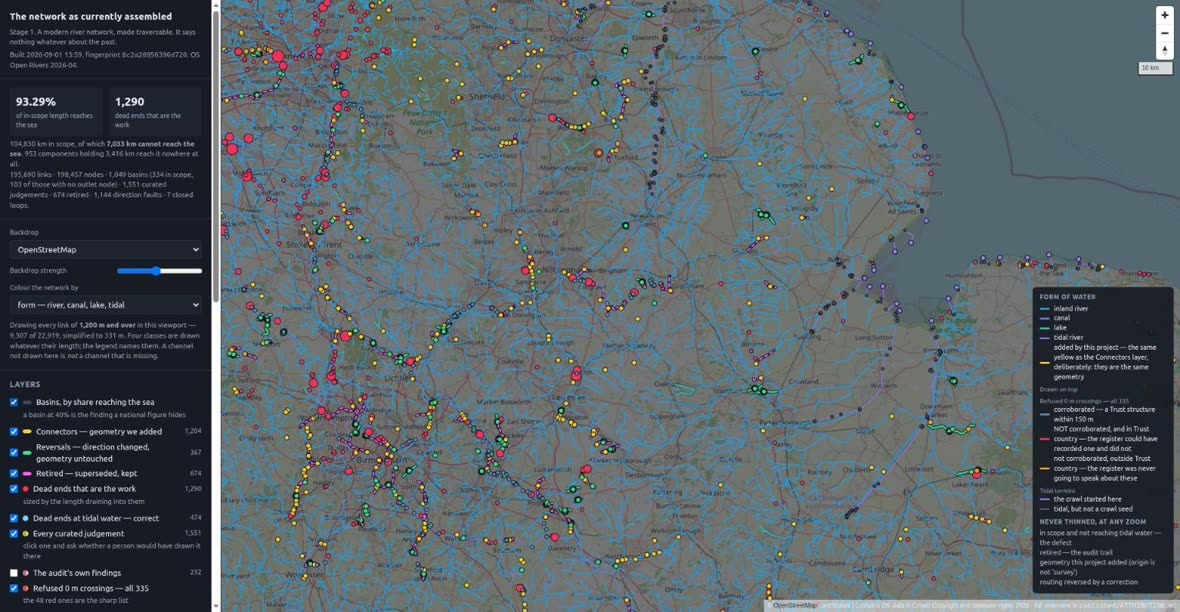
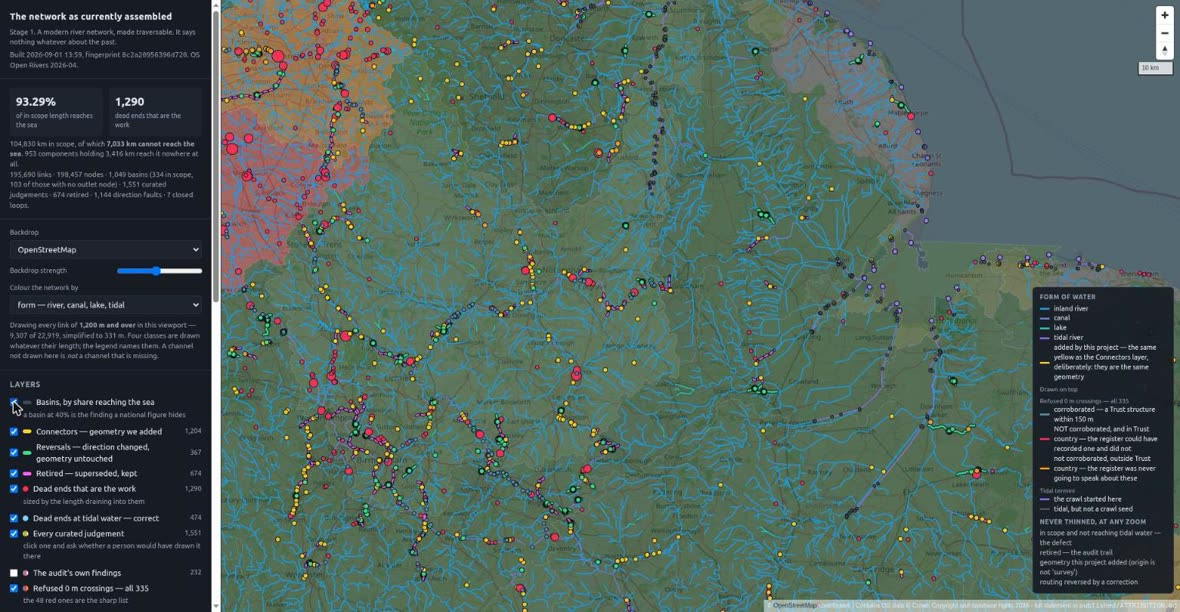
Documentation: retake the network picture with basins shaded
With basins shaded by the share of their length reaching the sea, the
figure carries both readings at once and each explains the other. The
red basins in the north-west are canal country, where one misdrawn
junction strands everything above it; most of the rest is green while
still carrying hundreds of defects. That is the argument for counting
judgements rather than defects, made in a picture instead of a sentence.

Changed region(s): [[0.1831, 0.0, 1.0, 1.0], [0.9763, 0.4967, 1.0, 0.5899], [0.0, 0.652, 0.0305, 0.683]]

diff --git a/docs/trace/js/app.js b/docs/trace/js/app.js
@@ -122,25 +122,57 @@ async function signIn(token) {
 /* ── the map ──────────────────────────────────────────────────────────────── */
 
 /**
- * The backdrop a contributor can actually trace on.
+ * The backdrop a contributor can actually trace on — decided by asking, not by arithmetic.
  *
- * BOUNDS ARE A HINT, NOT A CONTAINMENT TEST. The catalogue's extents are derived from a
- * listing at zoom 9, so a box is snapped to about 78 km and several counties genuinely
- * contain any given point. Picking the SMALLEST box containing the centre lands on the
- * right county far more often than picking the first — at Northwich the first is
- * `Shrop_Derby`, which draws one tile in fifty-seven. It is a default, and the picker is
- * there because a default is all it can be.
+ * BOUNDS ARE A HINT AND NOT A CONTAINMENT TEST, and this function exists because the first
+ * version forgot that. The catalogue's extents are derived from a listing at zoom 9, so a
+ * box is snapped to about 78 km and several counties genuinely contain any given point.
+ * Choosing the smallest box containing the centre picked **Bedfordshire for a point in
+ * Ware, Hertfordshire** — whose tiles do not cover it, so the map drew nothing at all and
+ * said nothing about why. That is rewt-fc's Northwich case arriving unprompted: picking the
+ * first box there lands on `Shrop_Derby`, which draws one tile in fifty-seven.
+ *
+ * So the boxes only NOMINATE. The bucket decides: fetch the one tile covering the point
+ * from each candidate in turn and take the first that answers. One request per candidate,
+ * usually one candidate, and it is the difference between a sheet and a blank screen.
  */
-function bestFor(lon, lat, group) {
-  const inside = BACKDROPS.filter((l) => l.group === group
-    && lon >= l.bounds[0] && lon <= l.bounds[2] && lat >= l.bounds[1] && lat <= l.bounds[3]);
-  if (!inside.length) return null;
-  const area = (l) => (l.bounds[2] - l.bounds[0]) * (l.bounds[3] - l.bounds[1]);
-  return inside.sort((a, b) => area(a) - area(b))[0];
+function tileXY(lon, lat, z) {
+  const n = 2 ** z;
+  return {
+    x: Math.floor(((lon + 180) / 360) * n),
+    y: Math.floor((1 - Math.asinh(Math.tan((lat * Math.PI) / 180)) / Math.PI) / 2 * n),
+  };
 }
 
-function backdropOptions(lon, lat) {
-  const best = bestFor(lon, lat, '25_inch');
+async function servesTile(layer, lon, lat) {
+  const z = Math.min(layer.zooms[1], 16);
+  const { x, y } = tileXY(lon, lat, z);
+  const url = layer.tiles.replace('{z}', z).replace('{x}', x).replace('{y}', y);
+  try {
+    const r = await fetch(url, { method: 'GET', cache: 'no-store' });
+    return r.ok;
+  } catch {
+    return false;                       // offline, or the host refused
+  }
+}
+
+function candidatesFor(lon, lat, group) {
+  const area = (l) => (l.bounds[2] - l.bounds[0]) * (l.bounds[3] - l.bounds[1]);
+  return BACKDROPS
+    .filter((l) => l.group === group
+      && lon >= l.bounds[0] && lon <= l.bounds[2] && lat >= l.bounds[1] && lat <= l.bounds[3])
+    .sort((a, b) => area(a) - area(b));
+}
+
+async function bestFor(lon, lat, group) {
+  for (const l of candidatesFor(lon, lat, group)) {
+    if (await servesTile(l, lon, lat)) return l;
+  }
+  return null;
+}
+
+async function backdropOptions(lon, lat) {
+  const best = await bestFor(lon, lat, '25_inch');
   const order = [
     ...(best ? [best] : []),
     ...BACKDROPS.filter((l) => l.group === 'seamless'),
@@ -175,7 +207,7 @@ async function startMap() {
   /* Ware, on the Lea — the calibration ground for the centring mode, and a place with a
      New Cut, a navigation and the New River within one screen. */
   const start = { lon: -0.0290, lat: 51.8080, zoom: 16 };
-  const first = backdropOptions(start.lon, start.lat);
+  const first = await backdropOptions(start.lon, start.lat);
   MAP = new maplibregl.Map({
     container: 'map', center: [start.lon, start.lat], zoom: start.zoom,
     style: { version: 8, sources: {}, layers: [] },
@@ -185,7 +217,12 @@ async function startMap() {
   });
   await new Promise((r) => MAP.on('load', r));
   applyBackdrop(first);
+  /* The same affordance the viewer offers, and for the same reason: somebody reads out a
+     coordinate and you need to get there. `window.rewt` also carries the tracer, so the
+     experimental centring can be exercised from the console without clicking. */
   window.map = MAP;
+  window.rewt = { get map() { return MAP; }, get tracer() { return TRACER; },
+                  get backdrop() { return CURRENT; }, backdrops: () => BACKDROPS };
 
   TRACER = createTracer({
     map: MAP,
@@ -196,9 +233,16 @@ async function startMap() {
   MAP.on('zoom', () => { $('zoompill').textContent = 'z' + MAP.getZoom().toFixed(1); });
   $('zoompill').textContent = 'z' + MAP.getZoom().toFixed(1);
 
-  $('backdrop').onchange = () => {
+  $('backdrop').onchange = async () => {
     const l = BACKDROPS.find((x) => x.id === $('backdrop').value);
-    if (l) applyBackdrop(l);
+    if (!l) return;
+    applyBackdrop(l);
+    /* A sheet that covers no ground here draws nothing and says nothing, which reads as a
+       broken map rather than a wrong choice. Say it. */
+    if (l.traceable && !(await servesTile(l, MAP.getCenter().lng, MAP.getCenter().lat))) {
+      await paint(`${l.name} has no sheet over this ground — the map will be blank here. `
+        + 'County extents in the catalogue are approximate; the sheet itself is the test.', true);
+    }
   };
 }
 

diff --git a/docs/trace/js/config.js b/docs/trace/js/config.js
@@ -13,7 +13,7 @@
 /* Must match the ?v= on the script tag in index.html. Browsers go on serving a cached
    module, and the page then reports the behaviour of code that is not deployed —
    which arrives as a bug report about something nobody can reproduce. */
-export const BUILD = '0.2.0-p2';
+export const BUILD = '0.2.1-p2';
 
 export const REPO = {
   owner: 'docuracy',

diff --git a/docs/trace/index.html b/docs/trace/index.html
@@ -201,7 +201,7 @@
 
 </main>
 
-<script type="module" src="./js/app.js?v=0.2.0-p2"></script>
+<script type="module" src="./js/app.js?v=0.2.1-p2"></script>
 <script src="https://unpkg.com/maplibre-gl@4.7.1/dist/maplibre-gl.js"></script>
 </body>
 </html>

diff --git a/docs/scale.md b/docs/scale.md
@@ -31,17 +31,20 @@ each checked at the place by one person in a few minutes.
 <figure class="sheet-figure">
   <div class="frames">
     <img src="{{ '/assets/maps/network-as-assembled.jpg' | relative_url }}"
-         alt="The Stage 1 viewer over the Trent, the east Midlands and the Fens: the network coloured by form, with corrections, reversals, retired lines, tidal termini and dead ends drawn on top, the dead ends sized by the length draining into them.">
+         alt="The Stage 1 viewer over the Trent, the east Midlands and the Fens: basins shaded by the share of their length that reaches the sea, green where nearly all of it does and orange to red where little does, with corrections, reversals, retired lines, tidal termini and dead ends drawn over the network.">
   </div>
   <figcaption><strong>The work, at the places it is.</strong> The Trent, the east Midlands and
-  the Fens, with everything the repair has touched drawn over the network: channels this
-  project added, directions it reversed, lines it retired rather than deleted, and — sized by
-  the length of river draining into each — the <strong>dead ends still outstanding</strong>.
-  The clusters are the argument: they gather in canal country and in the Fens and thin out
-  elsewhere, which is why a count of defects is the wrong unit and a count of judgements is
-  the right one. Read from the build of 1 September 2026, fingerprint <code>8c2a2095</code>,
-  over OS Open Rivers 2026-04, when 93.29% of in-scope length reached the sea and 1,290 dead
-  ends were outstanding. <span class="credit">Contains OS data © Crown copyright and database
+  the Fens. Basins are shaded by <strong>how much of their length reaches the sea</strong> —
+  green where nearly all of it does, orange and red where little does — and over them lie the
+  things the repair has touched: channels this project added, directions it reversed, lines it
+  retired rather than deleted, and, sized by the river draining into each, the <strong>dead
+  ends still outstanding</strong>. Both readings are in one picture, and they are the argument
+  for each other. The red basins in the north-west are canal country, where a single misdrawn
+  junction strands everything above it; most of the rest is green while still carrying
+  hundreds of defects, which is why a count of defects is the wrong unit and a count of
+  judgements is the right one. Read from the build of 1 September 2026, fingerprint
+  <code>8c2a2095</code>, over OS Open Rivers 2026-04, when 93.29% of in-scope length reached
+  the sea and 1,290 dead ends were outstanding. <span class="credit">Contains OS data © Crown copyright and database
   rights 2026. Base map © OpenStreetMap contributors.</span></figcaption>
 </figure>
 
